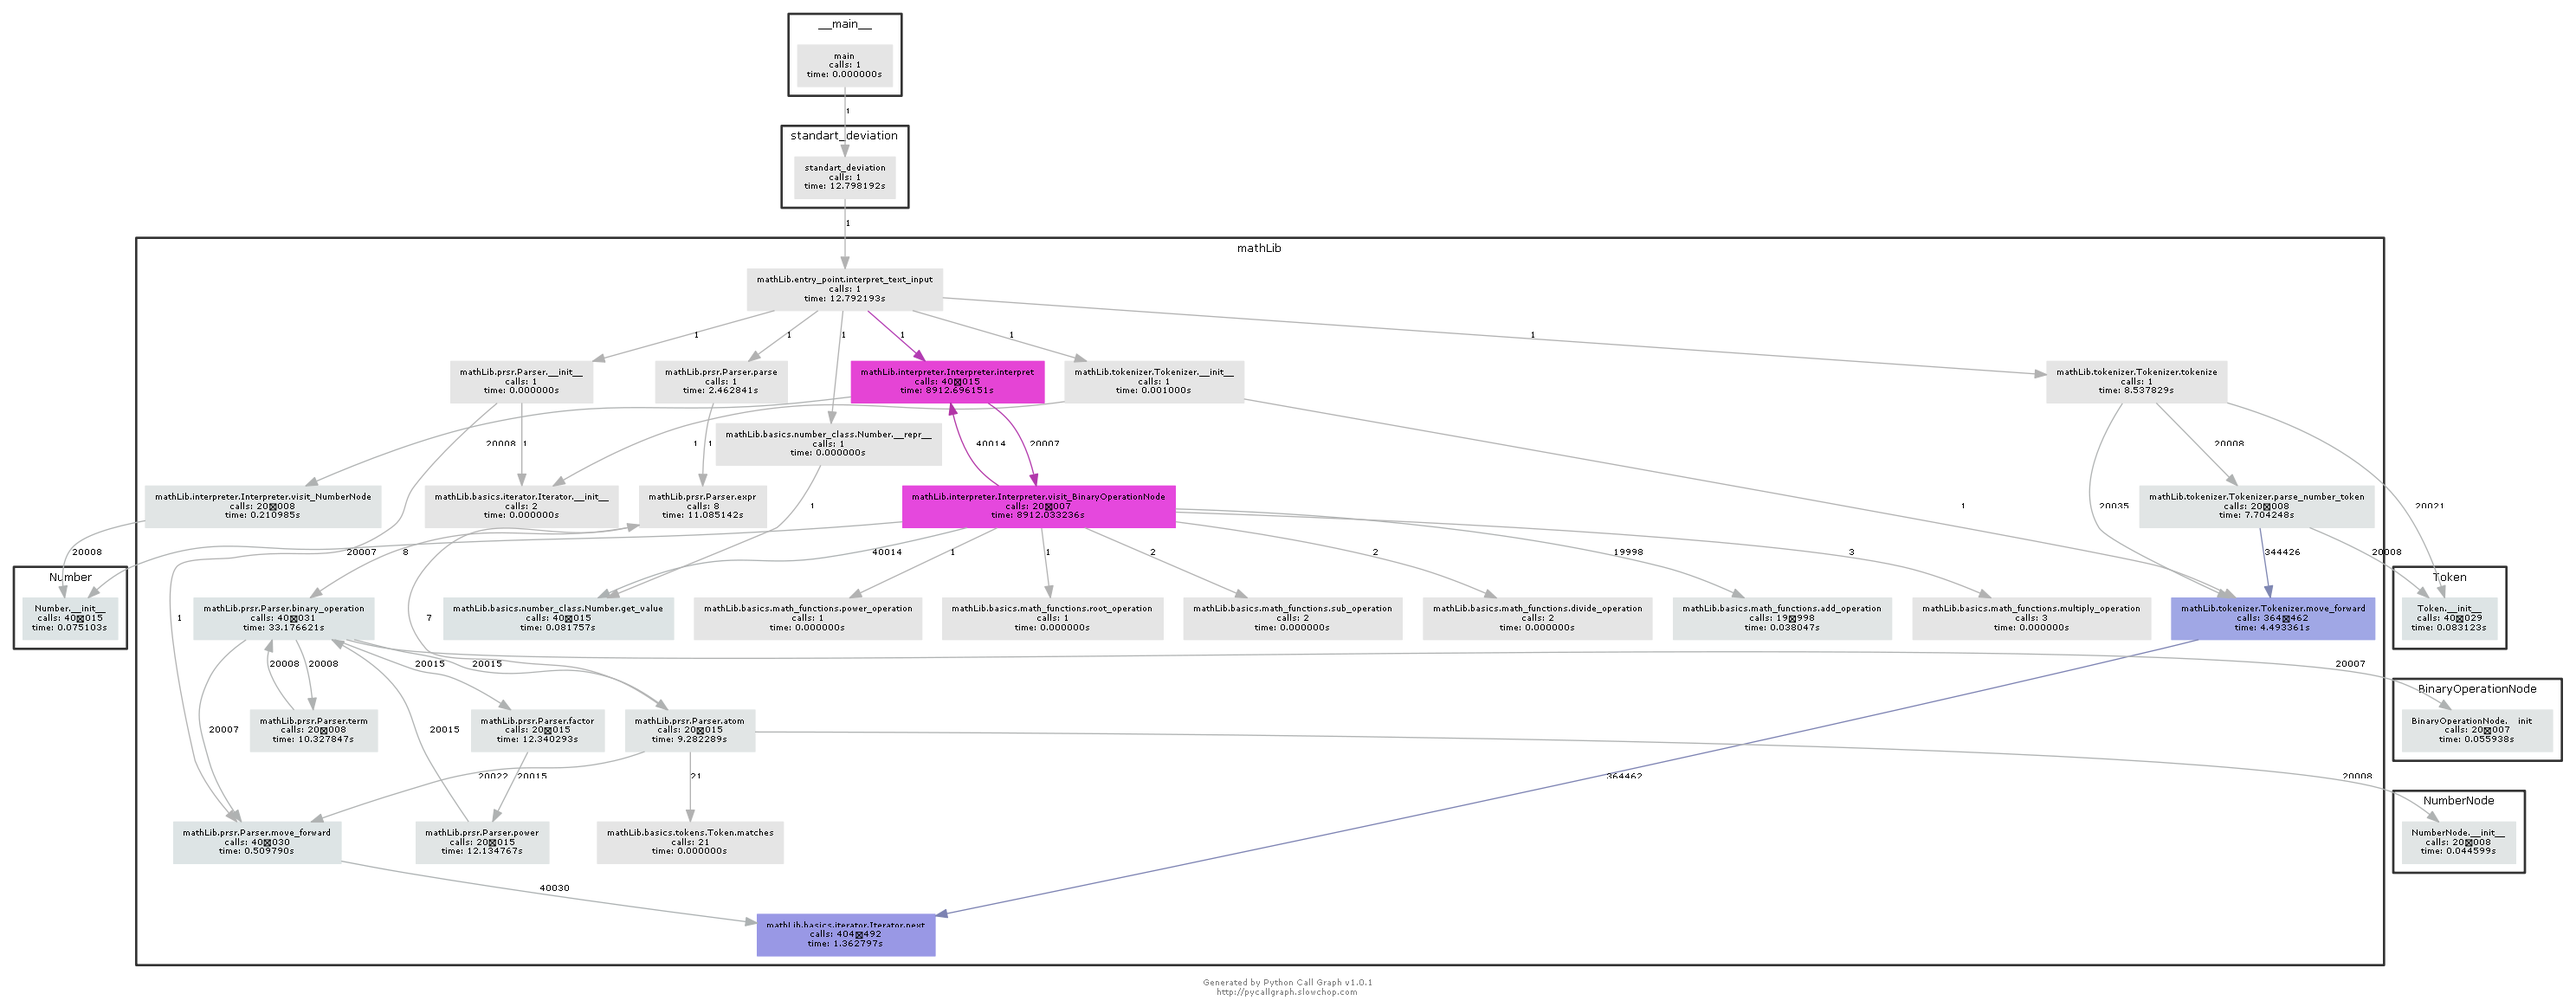
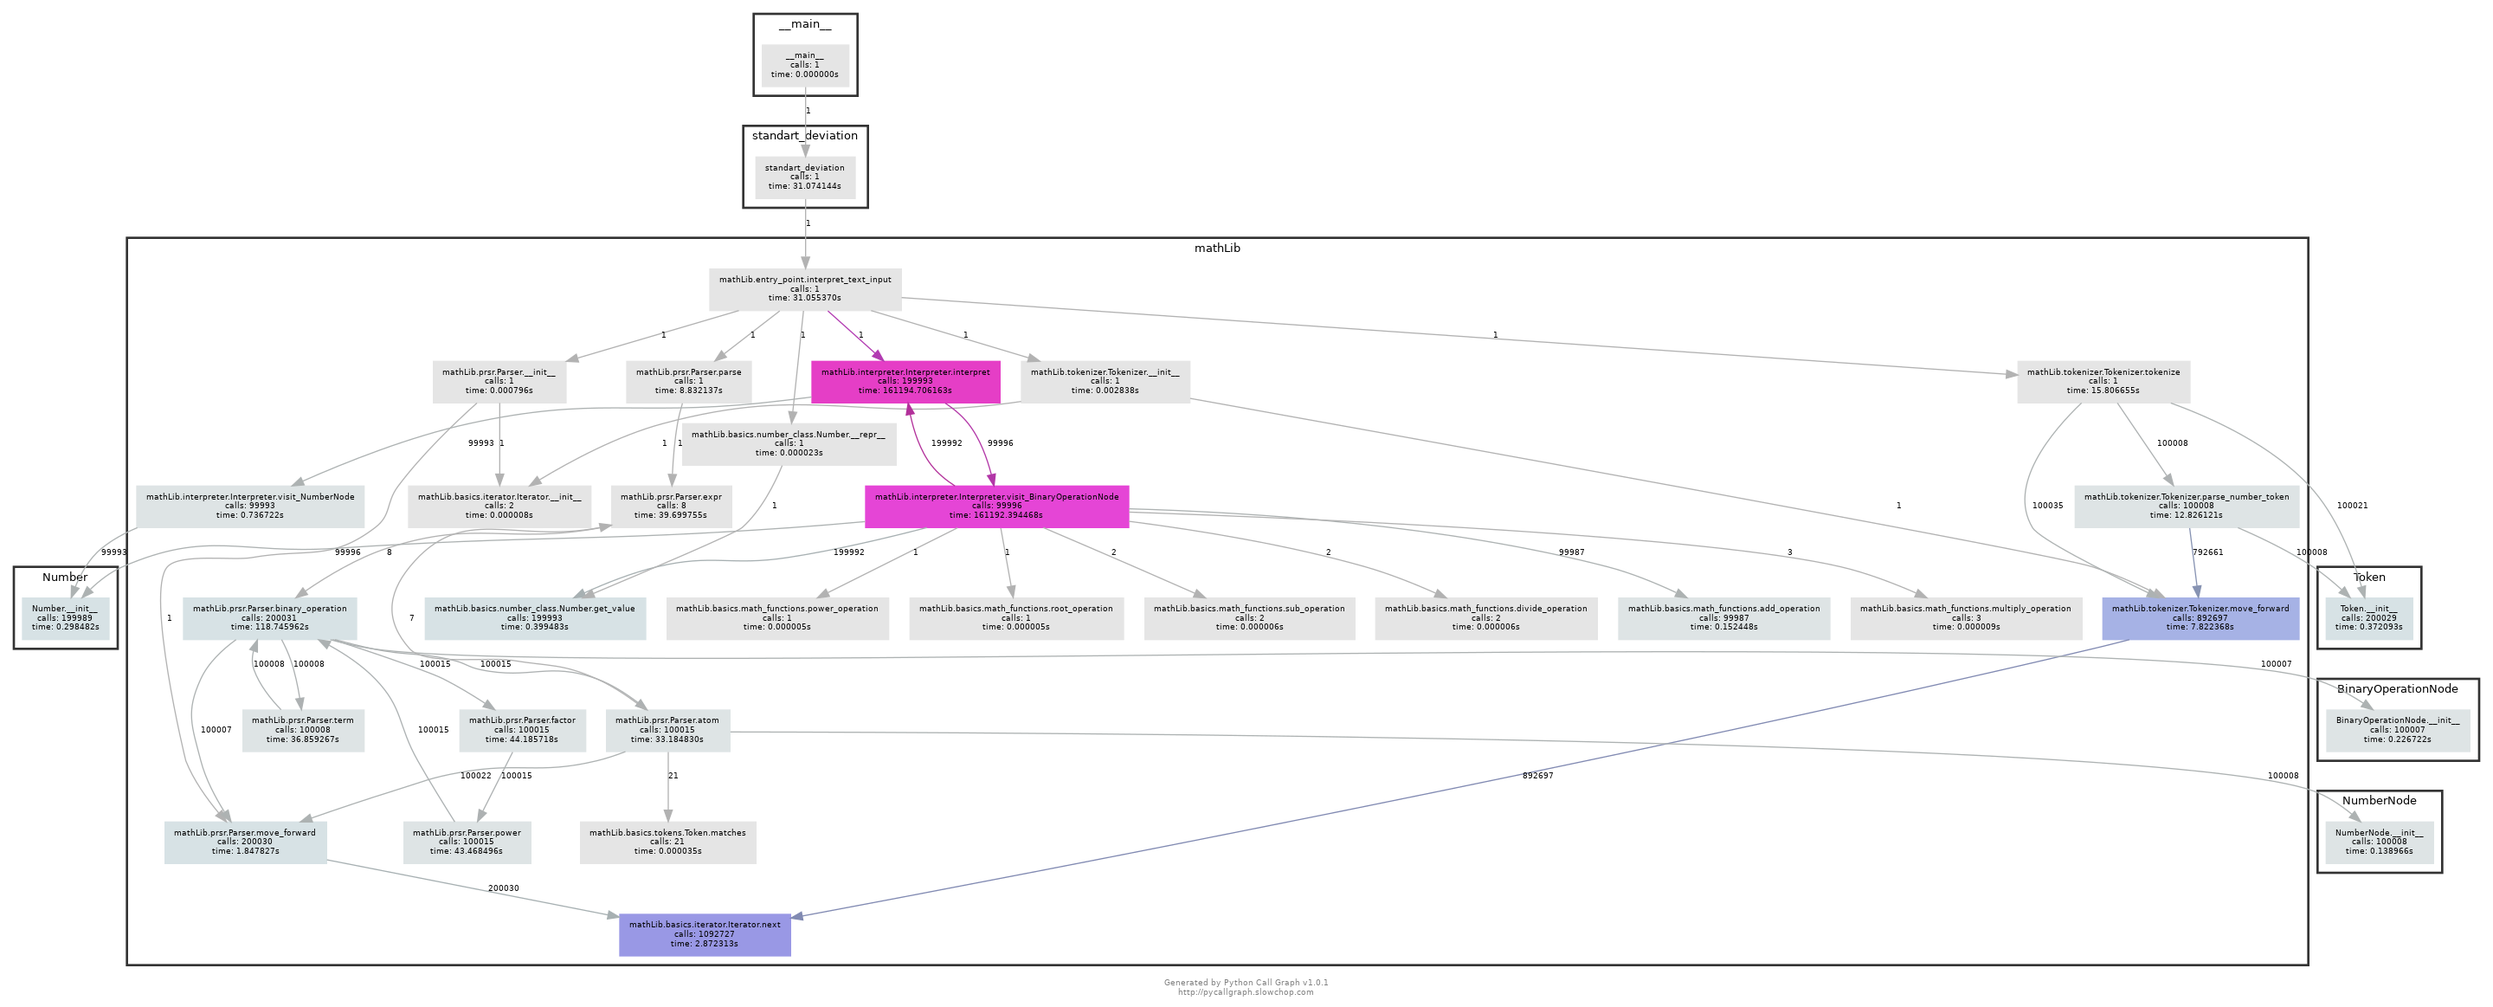
upgraded profiling

diff --git a/src/profiling_with_log.py b/src/profiling_with_log.py
@@ -7,8 +7,9 @@ import cProfile, pstats, io
 from pstats import SortKey
 import random
 import sys
+import time
 
-sys.setrecursionlimit(20_000_000)
+sys.setrecursionlimit(50_000_000)
 threading.stack_size(0x8000000)
 
 random.seed()
@@ -23,10 +24,10 @@ def create_sum_string(numbers):
   return total[:-1] + ")"
 
 def get_numbers_testing(x):
-  return [random.random() * 1000 for _ in range(x)]
+  return list(range(x))
 
 def ecxecute():
-  numbers = get_numbers_testing(10_000)
+  numbers = get_numbers_testing(100_000)
   n = len(numbers)
   input_string = f"2√(1 / ({n} - 1) * ({create_sum_string([MathFunctions.power_operation(float(number), 2) for number in numbers])} - {n} * ((1 / {n}) * {create_sum_string(numbers)})^2))"
 
@@ -47,6 +48,10 @@ def ecxecute():
 
   with open("../profiling/profile_log.txt", "w") as f:
     f.write(s.getvalue())
+
+  stime = time.time()
+  print(standart_deviation(input_string))
+  print(f"Exec time: {time.time() - stime}ms")
 
 if __name__ == '__main__':
   t = threading.Thread(target=ecxecute)

diff --git a/src/profiling.py b/src/profiling.py
@@ -1,10 +1,12 @@
 from mathLib.entry_point import interpret_text_input
 from mathLib.basics.math_functions import MathFunctions
 import random
+import threading
 import sys
 
 # Rise recursion limit because we used them a lot so it doesnt break
-sys.setrecursionlimit(1_000_000)
+sys.setrecursionlimit(50_000_000)
+threading.stack_size(0x8000000)
 random.seed()
 
 # Generate input string for math lib and execute calculation
@@ -21,9 +23,12 @@ def create_sum_string(numbers):
 
 # Load user input, sanitize it and pass for formating for math lib
 def profile():
-  numbers = input("Input numbers for standart deviation: ")
+  numbers = sys.stdin.read()
   numbers = str(numbers).replace(" ", ";").replace("\t", ";").replace("\n", ";").replace("\r", "").replace(",", ".").split(";")
+  numbers = [number for number in numbers if number != ""]
   print(standart_deviation(numbers, len(numbers)))
 
 if __name__ == '__main__':
-  profile()
+  t = threading.Thread(target=profile)
+  t.start()
+  t.join()
